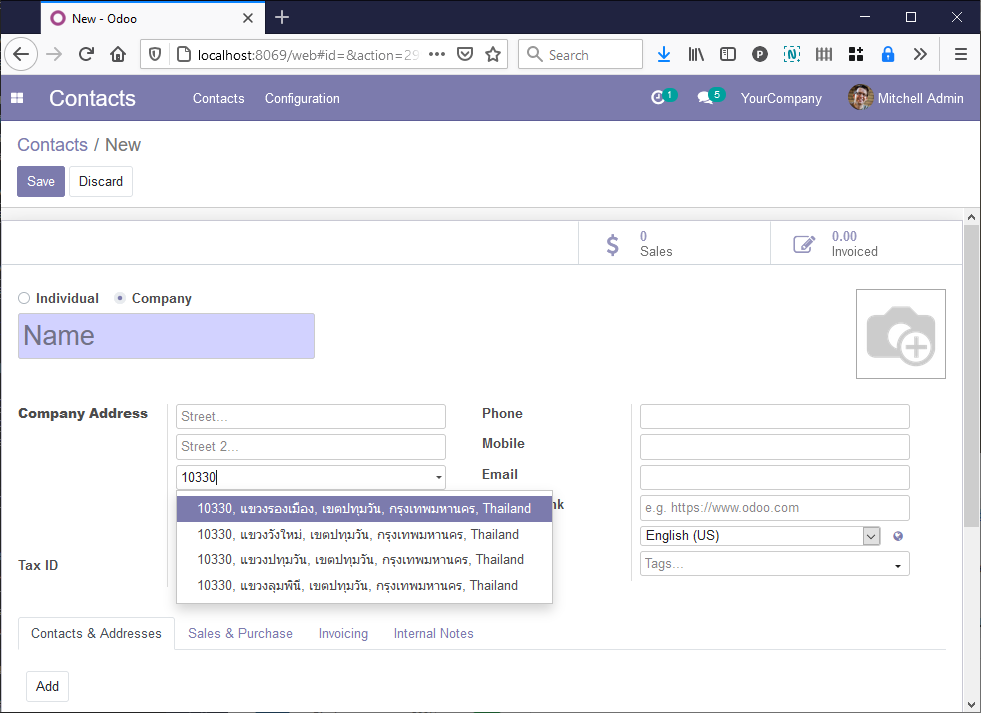
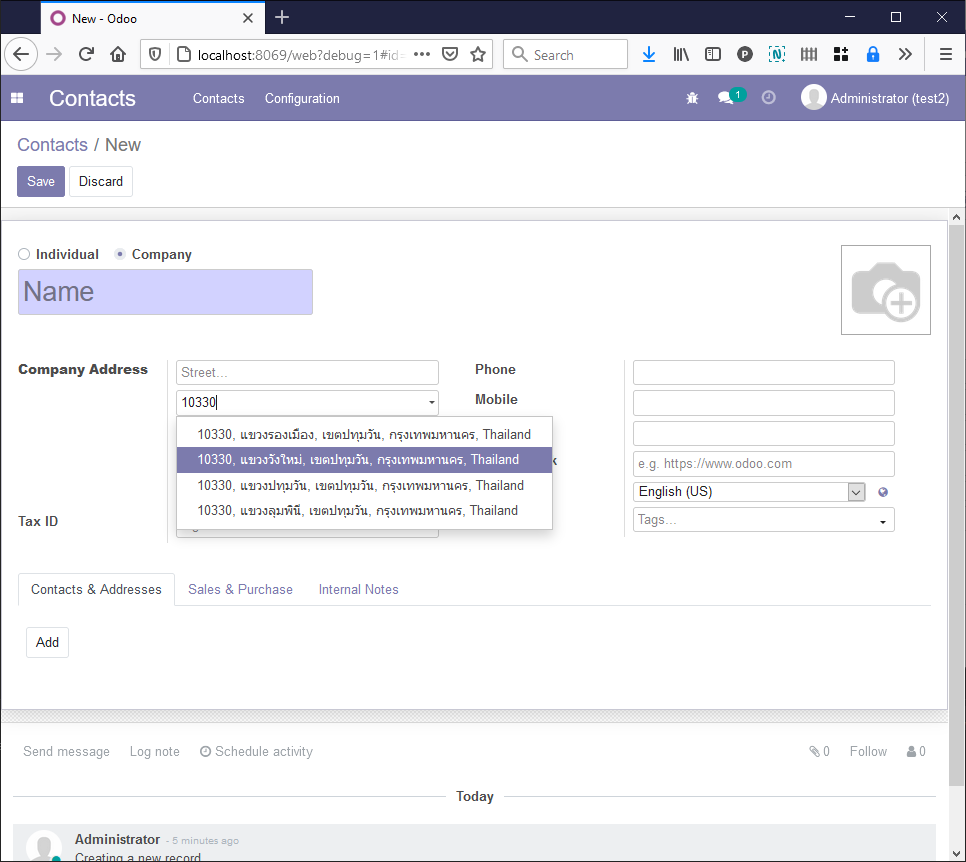
Update screenshots and README.rst

diff --git a/th_address/static/description/index.html b/th_address/static/description/index.html
@@ -375,6 +375,7 @@ ul.auto-toc {
 <li>กรณีที่ภาษาหลักที่ใช้ไม่ใช่ภาษาไทย โมดูลนี้จะเพิ่มภาษาไทยเป็นภาษาที่ 2 และนำเข้าคำแปลภาษาไทยในระบบ.</li>
 <li>ติดตั้งโมดูล <a class="reference external" href="https://github.com/OCA/partner-contact/tree/14.0/base_location_geonames_import">Base Location Geonames Import</a> ซึ่งโมดูลนี้จะติดตั้งโมดูล <a class="reference external" href="https://github.com/OCA/partner-contact/tree/14.0/base_location">Location management (aka Better ZIP)</a> อีกที</li>
 <li>ตั้งค่า system parameter <tt class="docutils literal">geonames.url</tt> สำหรับดึงข้อมูล ตำบล, อำเภอ, จังหวัด และรหัสไปรษณีย์ เป็นภาษาไทย. หากต้องการเป็นภาษาอังกฤษ หรือผสมกัน สามารถเปลี่ยนได้ภายหลัง</li>
+<li>เปลี่ยน form โดยสลับตำแหน่งให้ Location completion ขึ้นมาก่อน street2. เวลาพิมพ์ที่อยู่ ลำดับการกรอกข้อมูลจะเป็นธรรมชาติกว่า คือ บ้านเลขที่, ถนน ใส่ในช่อง street1 ตามด้วย Location completion. ถ้าเลือกตำบลอำเภอเสร็จแล้ว จะกรอกใส่ช่องด้านล่าง ตามลำดับจากด้านบนไปด้านล่าง.</li>
 <li>ระหว่างติดตั้ง จะนำเข้า (import) ข้อมูล ตำบล, อำเภอ, จังหวัด และรหัสไปรษณีย์ เป็นภาษาไทยอัตโนมัติ. เมื่อติดตั้งโมดูลเสร็จแล้ว ข้อมูลพร้อมใช้งานทันที ลดขั้นตอนการนำเข้าข้อมูลเอง</li>
 </ul>
 <div class="figure align-center">

diff --git a/th_address/README.rst b/th_address/README.rst
@@ -26,6 +26,7 @@ Thai Localization - Thai address data
 * กรณีที่ภาษาหลักที่ใช้ไม่ใช่ภาษาไทย โมดูลนี้จะเพิ่มภาษาไทยเป็นภาษาที่ 2 และนำเข้าคำแปลภาษาไทยในระบบ. 
 * ติดตั้งโมดูล `Base Location Geonames Import <https://github.com/OCA/partner-contact/tree/14.0/base_location_geonames_import>`_ ซึ่งโมดูลนี้จะติดตั้งโมดูล `Location management (aka Better ZIP) <https://github.com/OCA/partner-contact/tree/14.0/base_location>`_ อีกที
 * ตั้งค่า system parameter ``geonames.url`` สำหรับดึงข้อมูล ตำบล, อำเภอ, จังหวัด และรหัสไปรษณีย์ เป็นภาษาไทย. หากต้องการเป็นภาษาอังกฤษ หรือผสมกัน สามารถเปลี่ยนได้ภายหลัง
+* เปลี่ยน form โดยสลับตำแหน่งให้ Location completion ขึ้นมาก่อน street2. เวลาพิมพ์ที่อยู่ ลำดับการกรอกข้อมูลจะเป็นธรรมชาติกว่า คือ บ้านเลขที่, ถนน ใส่ในช่อง street1 ตามด้วย Location completion. ถ้าเลือกตำบลอำเภอเสร็จแล้ว จะกรอกใส่ช่องด้านล่าง ตามลำดับจากด้านบนไปด้านล่าง.
 * ระหว่างติดตั้ง จะนำเข้า (import) ข้อมูล ตำบล, อำเภอ, จังหวัด และรหัสไปรษณีย์ เป็นภาษาไทยอัตโนมัติ. เมื่อติดตั้งโมดูลเสร็จแล้ว ข้อมูลพร้อมใช้งานทันที ลดขั้นตอนการนำเข้าข้อมูลเอง
 
 .. figure:: https://raw.githubusercontent.com/poonlap/odoo-th/14.0/th_address/static/description/data_provinces.png

diff --git a/th_address/readme/DESCRIPTION.rst b/th_address/readme/DESCRIPTION.rst
@@ -5,6 +5,7 @@
 * กรณีที่ภาษาหลักที่ใช้ไม่ใช่ภาษาไทย โมดูลนี้จะเพิ่มภาษาไทยเป็นภาษาที่ 2 และนำเข้าคำแปลภาษาไทยในระบบ. 
 * ติดตั้งโมดูล `Base Location Geonames Import <https://github.com/OCA/partner-contact/tree/14.0/base_location_geonames_import>`_ ซึ่งโมดูลนี้จะติดตั้งโมดูล `Location management (aka Better ZIP) <https://github.com/OCA/partner-contact/tree/14.0/base_location>`_ อีกที
 * ตั้งค่า system parameter ``geonames.url`` สำหรับดึงข้อมูล ตำบล, อำเภอ, จังหวัด และรหัสไปรษณีย์ เป็นภาษาไทย. หากต้องการเป็นภาษาอังกฤษ หรือผสมกัน สามารถเปลี่ยนได้ภายหลัง
+* เปลี่ยน form โดยสลับตำแหน่งให้ Location completion ขึ้นมาก่อน street2. เวลาพิมพ์ที่อยู่ ลำดับการกรอกข้อมูลจะเป็นธรรมชาติกว่า คือ บ้านเลขที่, ถนน ใส่ในช่อง street1 ตามด้วย Location completion. ถ้าเลือกตำบลอำเภอเสร็จแล้ว จะกรอกใส่ช่องด้านล่าง ตามลำดับจากด้านบนไปด้านล่าง.
 * ระหว่างติดตั้ง จะนำเข้า (import) ข้อมูล ตำบล, อำเภอ, จังหวัด และรหัสไปรษณีย์ เป็นภาษาไทยอัตโนมัติ. เมื่อติดตั้งโมดูลเสร็จแล้ว ข้อมูลพร้อมใช้งานทันที ลดขั้นตอนการนำเข้าข้อมูลเอง
 
 .. figure:: ../static/description/data_provinces.png
